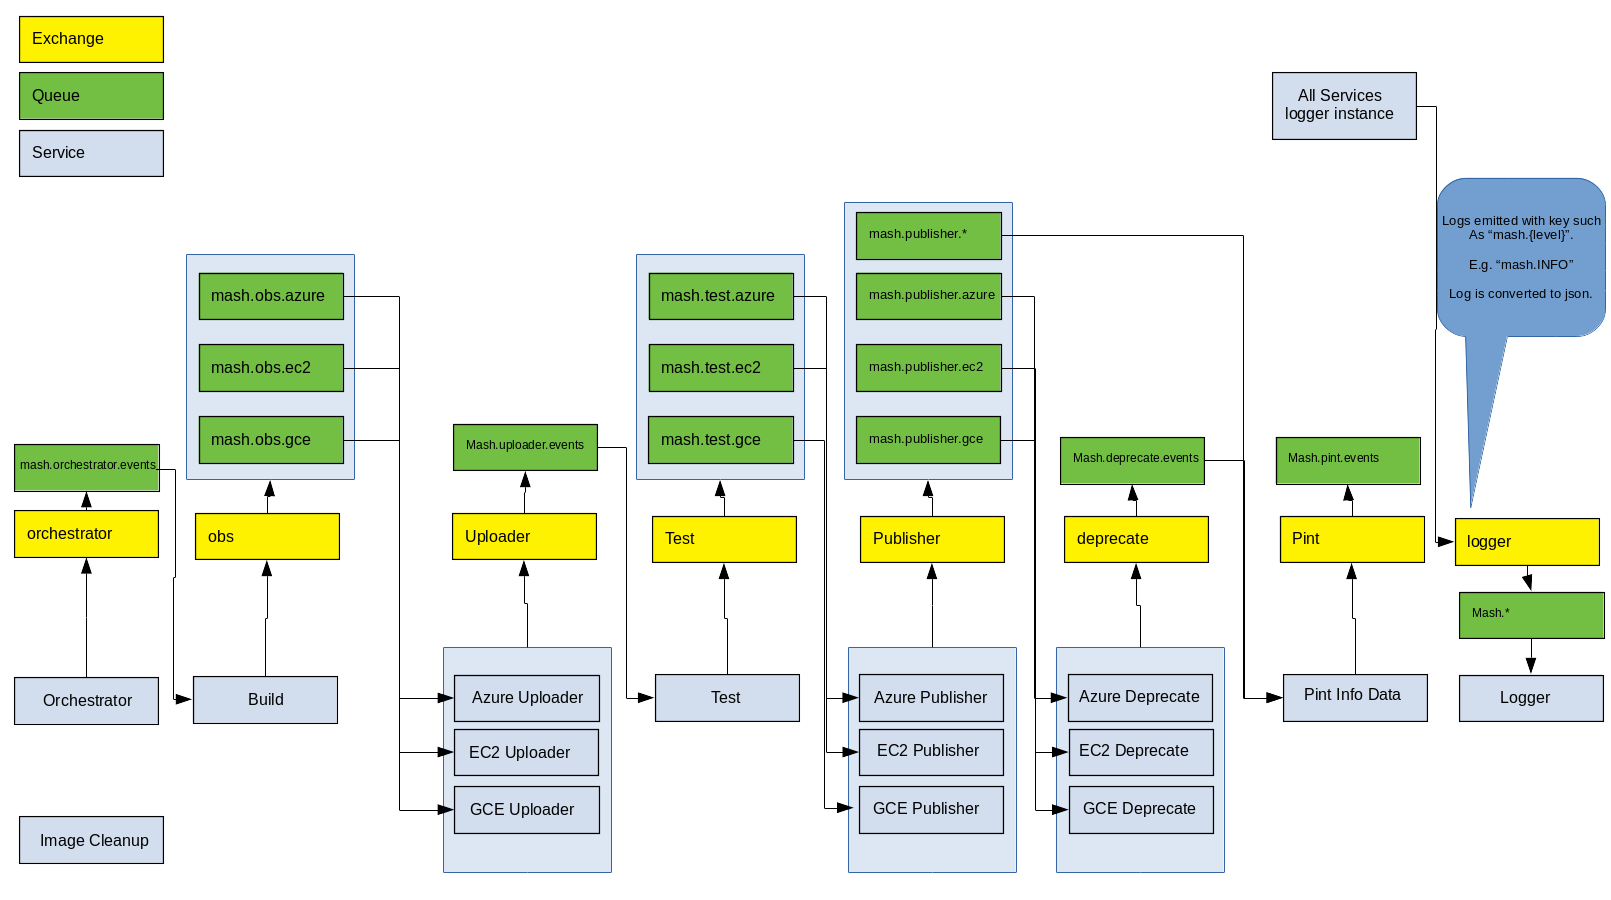
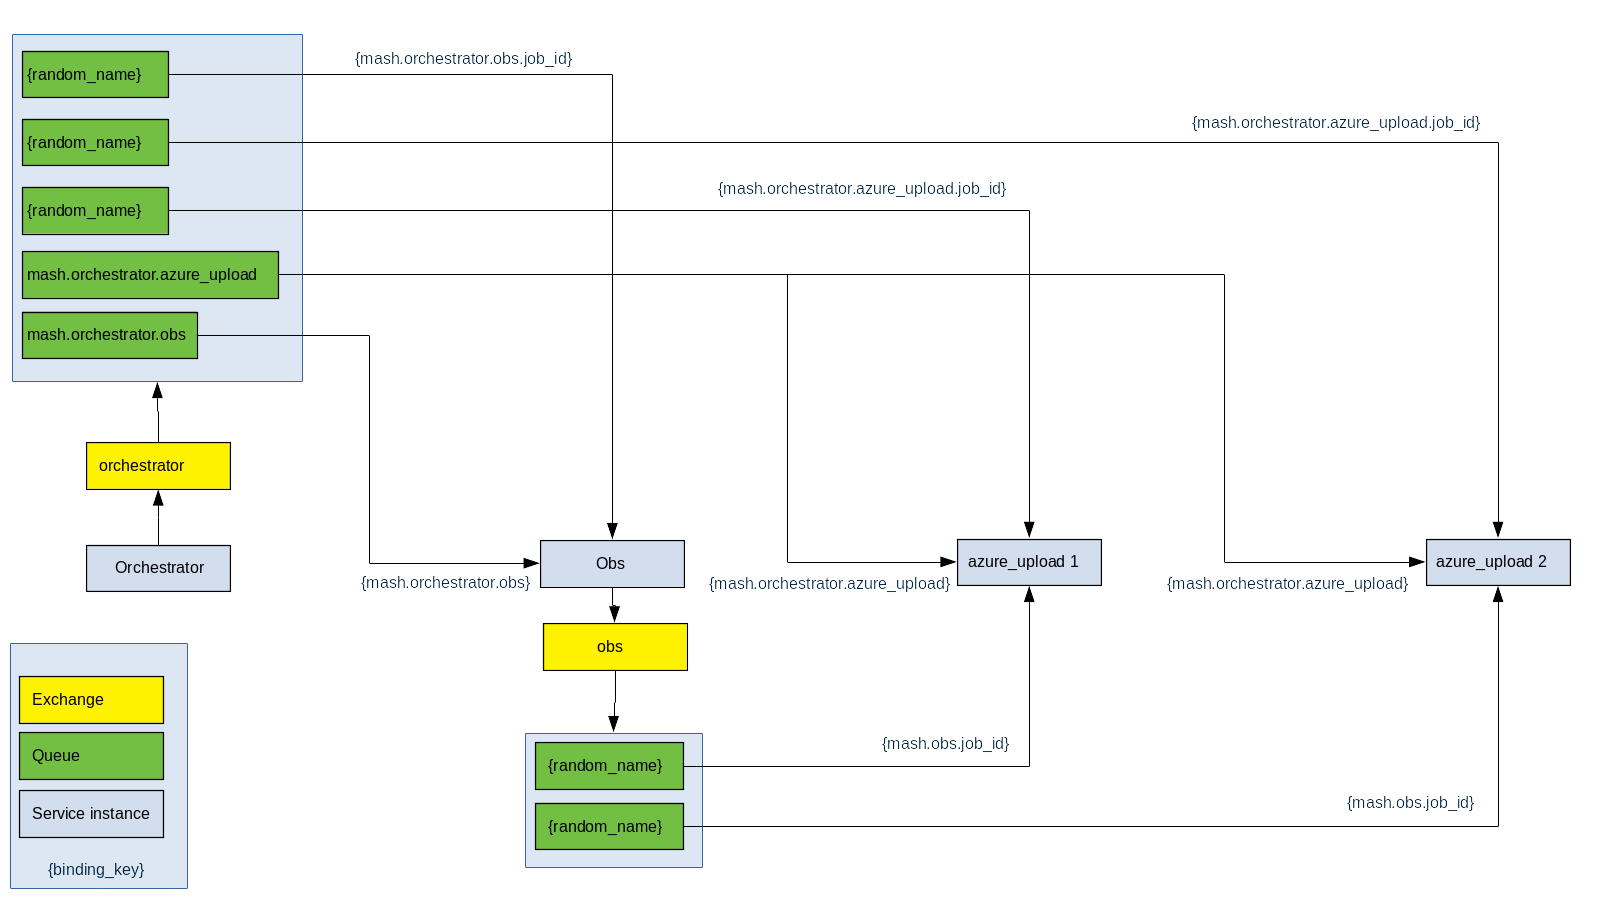
More cleanup on messging example.
Update messaging diagram to just show communicationo channels for
one service (azure_upload).

diff --git a/examples/testing/base.py b/examples/testing/base.py
@@ -40,8 +40,10 @@ LOG_CONFIG = {
 
 
 class BaseService(object):
-    queues = {}
+    channel = None
+    connection = None
     jobs = {}
+    queues = {}
 
     def __init__(self):
         if not self.name:
@@ -50,17 +52,30 @@ class BaseService(object):
         if not self.exchange:
             raise Exception('Exchange is required in child class.')
 
+        # Create logger from log config and add service name
         LOG_CONFIG['handlers']['rabbit']['fields']['source'] = self.name
         logging.config.dictConfig(LOG_CONFIG)
         self.logger = logging.getLogger('mash')
 
-        # Connect to RabbitMQ instance
-        self.connection = None
-        self.channel = None
-        self.open_connection()
+        # Connect to RabbitMQ instance (using connection parameters
+        # probably from config)
+        params = pika.ConnectionParameters(
+            host='localhost',
+            port=5672
+        )
+        self.open_connection(params)
 
         # Declare service exchange exist
         self.exchange_declare(self.exchange)
+
+    def bind_service_queue(self, service):
+        key = 'mash.{}.{}'.format(service, self.name)
+        self.channel.queue_bind(
+            exchange=service,
+            queue=key,
+            routing_key=key
+        )
+        return key
 
     def close_connection(self):
         if self.channel:
@@ -78,22 +93,21 @@ class BaseService(object):
             durable=True
         )
 
-    def event_publish(self, body, key):
+    def event_publish(self, body, key, wait=1, timeout=5):
         received = False
-        count = 5
-        while not received and count:
+        while not received and timeout:
             received = self.channel.basic_publish(
                 exchange=self.exchange,
                 routing_key=self.get_routing_key(key),
                 body=body,
                 properties=pika.BasicProperties(
-                    content_type='text/plain',
+                    content_type='application/json',
                     delivery_mode=1
                 ),
                 mandatory=True
             )
-            count -= 1
-            time.sleep(1)
+            timeout -= 1
+            time.sleep(wait)
 
         if not received:
             self.logger.error(
@@ -114,14 +128,9 @@ class BaseService(object):
     def message_ack(self, tag):
         self.channel.basic_ack(tag)
 
-    def open_connection(self):
+    def open_connection(self, params):
         if not self.connection or self.connection.is_closed:
-            self.connection = pika.BlockingConnection(
-                pika.ConnectionParameters(
-                    host='localhost',
-                    port=5672
-                )
-            )
+            self.connection = pika.BlockingConnection(params)
 
         if not self.channel or self.channel.is_closed:
             self.channel = self.connection.channel()

diff --git a/examples/testing/obs.py b/examples/testing/obs.py
@@ -29,12 +29,7 @@ if __name__ == '__main__':
     obs = ObsService()
 
     # Bind to orchestrator events queue
-    queue = obs.get_queue('orchestrator')
-    obs.channel.queue_bind(
-        exchange='orchestrator',
-        queue=queue,
-        routing_key='mash.orchestrator.obs'
-    )
+    queue = obs.bind_service_queue('orchestrator')
 
     # Set callback for orchestrator events
     obs.queue_consume('download_image', queue=queue)

diff --git a/examples/testing/azure_publish.py b/examples/testing/azure_publish.py
@@ -7,7 +7,7 @@ from base_publish import BasePublisherService
 
 
 class AzurePublisherService(BasePublisherService):
-    name = 'azure publisher'
+    name = 'azure_publish'
 
     def publish_image(self, ch, method, properties, body):
         self.message_ack(method.delivery_tag)

diff --git a/examples/testing/ec2_publish.py b/examples/testing/ec2_publish.py
@@ -7,7 +7,7 @@ from base_publish import BasePublisherService
 
 
 class EC2PublisherService(BasePublisherService):
-    name = 'ec2 publisher'
+    name = 'ec2_publish'
 
     def publish_image(self, ch, method, properties, body):
         self.message_ack(method.delivery_tag)

diff --git a/examples/testing/logger.py b/examples/testing/logger.py
@@ -1,9 +1,6 @@
 import json
-import pprint
 
 from base import BaseService
-
-pp = pprint.PrettyPrinter(indent=2)
 
 
 class LoggerService(BaseService):
